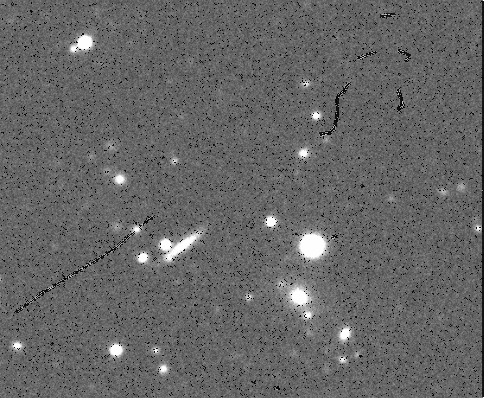
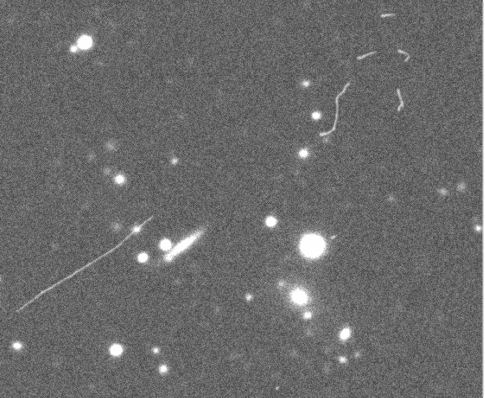
update

diff --git a/test.py b/test.py
@@ -10,9 +10,6 @@ import numpy as np
 # TODO: 優化整個程式流程 變成只要執行一次就好 且過程不存圖(創新檔案)
 # 新想法是，每次跑完流程，就調低檢測宇宙射線的判斷閥值，再跑一次流程
 # 有機會可以去除乾淨
-# TODO: 或是取周圍最亮但mark不為1的點直接取值，或是運算時直接判斷周圍的點若為1就不給權重 也就是動態生成Kernel
-
-
 def SaveImg(image_name, img):
     cv2.imwrite(image_name, img)
 
@@ -26,7 +23,7 @@ def NegativeFilm(row, col):
     return nagativeImg
 
 
-def MarkComsic(img, row, col, val=230):
+def MarkComsic(img, row, col):
     '''
     想避免雜訊的話，目前想法是如果周遭有2或3個鄰居的色差小於一定值或周遭的值直接黑掉，就當宇宙射線。 \n
     如果下方的點也有一些特徵 或許可以在markedMap做不同的標記。
@@ -35,7 +32,7 @@ def MarkComsic(img, row, col, val=230):
     same_color_point_count = 0
     diff_color_point_count = 0
     # 如果中心點是夠白的
-    if center_value > val:
+    if center_value > 230:
         # 判定周遭有多少顏色類似的點, 且是否有落差極大的點
         for i in range(-1, 2):
             for j in range(-1, 2):
@@ -60,15 +57,17 @@ def blurred(img, row, col):
     # kernel = np.array([[2, 2, 2],
     #                    [2, 0, 1],
     #                    [1, 1, 1]])
-    kernel = np.array([[0, 1, 0],
-                       [1, 0, 1],
-                       [0, 1, 0]])
+    kernel = np.array([[0, 2, 0],
+                       [2, 0, 2],
+                       [0, 2, 0]])
     value = np.array([[img[row-1, col-1], img[row-1, col], img[row-1, col+1]],
                       [img[row, col-1], img[row, col], img[row, col+1]],
                       [img[row+1, col-1], img[row+1, col], img[row+1, col+1]]])
     return np.sum(np.floor(kernel/np.sum(kernel) * value))
 
 
+STEP = 3
+# 手動更改路徑
 input_path = "./data_set/img_edge/"
 output_path = "./data_set/img_edge/"
 filename = "data1.png"
@@ -83,41 +82,60 @@ if __name__ == '__main__':
     markedImgMap = np.zeros(shape=(img_rows, img_cols, 1), dtype=np.uint8)
 
     # step 1 存負片
-    nav_img = NegativeFilm(img_rows, img_cols)
+    if STEP == 1:
+        SaveImg(output_path+filename, NegativeFilm(img_rows, img_cols))
 
     # step 2 拉普拉斯邊緣檢測
-    la_img = cv2.Laplacian(img, cv2.CV_16S, ksize=3)
-    la_img = cv2.convertScaleAbs(la_img)
+    elif STEP == 2:
+        la_img = cv2.Laplacian(img, cv2.CV_16S, ksize=3)
+        la_img = cv2.convertScaleAbs(la_img)
+        SaveImg(output_path+filename, la_img)
 
     # step 3 濾鏡處理拉普拉斯檢測的負片
     # 開3x3檢測鏡
-    # 判斷中間的灰階值是否幾乎等於白色，且與周遭的值差距很大(like val>210 or something)
+    # 判斷中間的灰階值是否幾乎等於白色，且與周遭的值差距很大(like > 210 or something)
     # 是的話就標記他的座標
-    for i in range(1, img_rows-1):
-        for j in range(1, img_cols-1):
-            markedImgMap[i, j] = MarkComsic(la_img, i, j, val=230)
+    elif STEP == 3:
+        la_edge_img = cv2.imread("./data_set/img_edge/"+filename, 0)
+        counter = 0
+        for i in range(1, img_rows-1):
+            for j in range(1, img_cols-1):
+                markedImgMap[i, j] = MarkComsic(la_edge_img, i, j)
+        # SaveImg("./data_set/img_output/"+filename, markedImgMap)
     # step 4 回到普通圖片，從上往下從左到右把那個區塊磨掉
-    for i in range(1, img_rows-1):
-        for j in range(1, img_cols-1):
-            if markedImgMap[i, j] == 1:
-                # TODO: 動態生成Kernel
-                img[i, j] = blurred(img, i, j)
-    # ----- 成效不佳 -----
-    # 用[[2,2,2],[2,0,0],[0,0,0]]的過濾器來處理得到blur1, 對marked2再處理一次得到blur2, blur1比較好
-    #             # 之後再對2的部分做一是磨平
-    #             if markedImgMap[i-1, j] != 1:
-    #                 markedImgMap[i-1, j] = 2
-    #             if markedImgMap[i, j-1] != 1:
-    #                 markedImgMap[i, j-1] = 2
-    #             if markedImgMap[i+1, j] != 1:
-    #                 markedImgMap[i+1, j] = 2
-    #             if markedImgMap[i, j+1] != 1:
-    #                 markedImgMap[i, j+1] = 2
+        # cv2.filter2D(img, -1, kernel)
+        origin_image = cv2.imread("./data_set/img_with_cosmic/"+"data1.png", 0)
+        for i in range(1, img_rows-1):
+            for j in range(1, img_cols-1):
+                if markedImgMap[i, j] == 1:
+                    origin_image[i, j] = blurred(origin_image, i, j)\
+                        # ----- 成效不佳 -----
+        # 用[[2,2,2],[2,0,0],[0,0,0]]的過濾器來處理得到blur1, 對marked2再處理一次得到blur2, blur1比較好
+        #             # 之後再對2的部分做一是磨平
+        #             if markedImgMap[i-1, j] != 1:
+        #                 markedImgMap[i-1, j] = 2
+        #             if markedImgMap[i, j-1] != 1:
+        #                 markedImgMap[i, j-1] = 2
+        #             if markedImgMap[i+1, j] != 1:
+        #                 markedImgMap[i+1, j] = 2
+        #             if markedImgMap[i, j+1] != 1:
+        #                 markedImgMap[i, j+1] = 2
 
-    # for i in range(1, img_rows-1):
-    #     for j in range(1, img_cols-1):
-    #         if markedImgMap[i, j] == 2:
-    #             origin_image[i, j] = blurred(origin_image, i, j)
-    # --------------------
-    # 如果對blur1 當作原圖 再從step1跑一次流程，可以得到blur1_round2
-    SaveImg("./data_set/img_output/"+"newImg.png", img)
+        # for i in range(1, img_rows-1):
+        #     for j in range(1, img_cols-1):
+        #         if markedImgMap[i, j] == 2:
+        #             origin_image[i, j] = blurred(origin_image, i, j)
+        # --------------------
+        # 如果對blur1 當作原圖 再從step1跑一次流程，可以得到blur1_round2
+        SaveImg("./data_set/img_output/"+"newImg.png", origin_image)
+
+    # # 二值化
+    # ret, th1 = cv2.threshold(la_img, 127, 255, cv2.THRESH_BINARY)
+
+    # canny 太銳利 看不到天體或星系星雲了
+    # canny_img = cv2.Canny(img, 50, 110)
+
+    # cv2.imshow("nor", img)
+    # cv2.imshow("naga", NegativeFilm(img_rows, img_cols))
+    # cv2.waitKey()
+    # cv2.destroyAllWindows()
